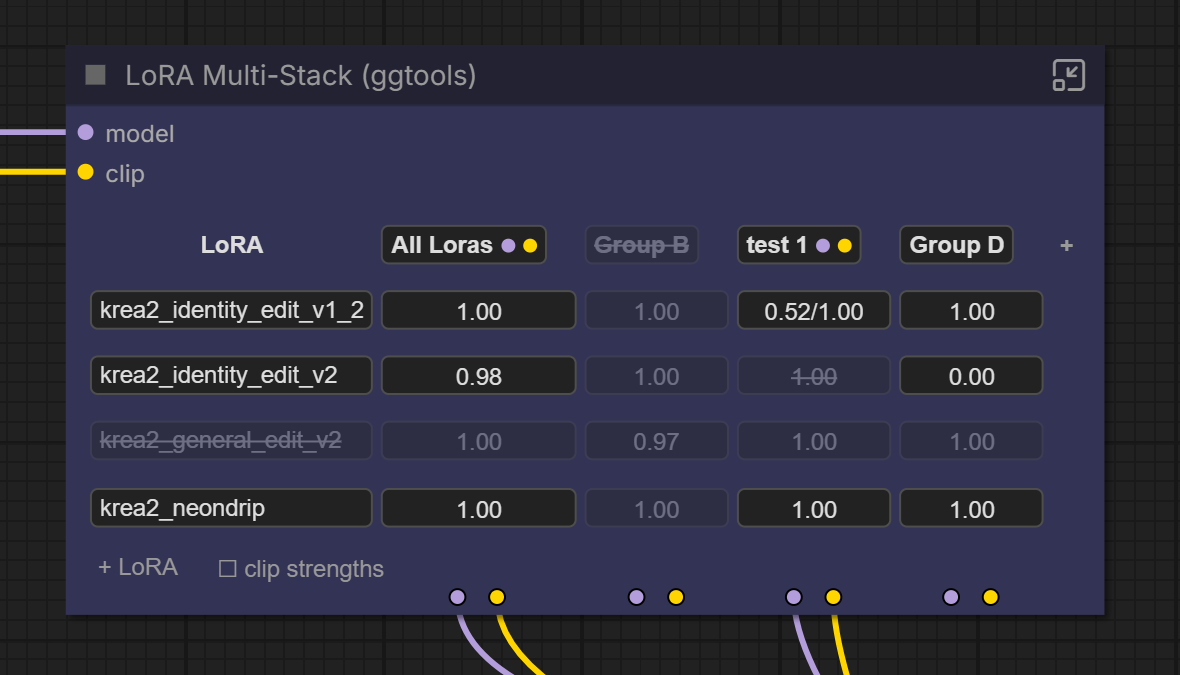
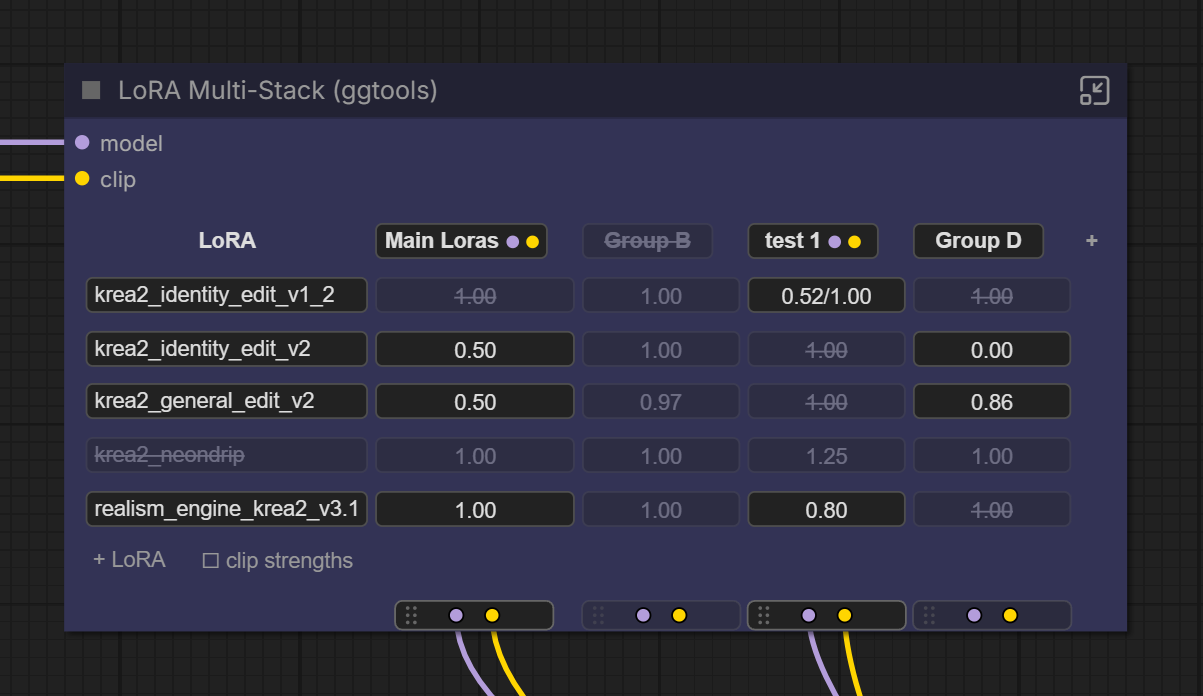
Add draggable socket plates to LoRA Multi-Stack
Each group's model/clip sockets sit on a plate that can be dragged onto
another group to swap their wires, or move them when that group has none.
Plates fade for unwired and bypassed groups. Nodes wired to the outputs are
notified after a swap or a group rename, so Pipe To updates its entries.

diff --git a/web/lora_matrix.js b/web/lora_matrix.js
@@ -6,6 +6,9 @@ let lastTap = null;
 const titleMeasure = document.createElement("canvas").getContext("2d");
 // Room along the bottom edge for the group sockets.
 const SOCKET_STRIP = 18;
+const FRAME_HINT = "drag onto another group to swap their model/clip wires";
+// One plate size for every group; group columns are at least this wide (plus their 2 px cell padding).
+const PAD_WIDTH = 88;
 
 // Each press already acts; a second press on the same target within 400 ms makes it a double press.
 function doublePress(target) {
@@ -28,6 +31,7 @@ style.textContent = `
 .ggtools-lora-matrix td, .ggtools-lora-matrix th { padding: 2px; }
 .ggtools-lora-matrix .lora, .ggtools-lora-matrix .group, .ggtools-lora-matrix input { width: 100%; box-sizing: border-box; background: var(--comfy-input-bg); color: var(--input-text); border: 1px solid var(--border-color); border-radius: 4px; padding: 2px 4px; font: inherit; }
 .ggtools-lora-matrix th input { text-align: center; font-weight: bold; }
+.ggtools-lora-matrix th.group-col { min-width: ${PAD_WIDTH + 4}px; }
 .ggtools-lora-matrix .group { text-align: center; font-weight: bold; cursor: pointer; user-select: none; white-space: nowrap; }
 .ggtools-lora-matrix .wired { display: inline-block; box-sizing: border-box; width: 7px; height: 7px; border-radius: 50%; margin-left: 4px; vertical-align: middle; }
 .ggtools-lora-matrix .lora { max-width: 280px; cursor: pointer; overflow: hidden; text-overflow: ellipsis; white-space: nowrap; }
@@ -99,7 +103,10 @@ class LoraMatrix extends LGraphNode {
         this.observer.observe(this.table);
         const widget = this.addDOMWidget("matrix", "lora_matrix", this.table, {
             serialize: false,
-            getMinHeight: () => (this.compact ? 0 : (this.properties.matrix.rows.length + (this.properties.matrix.showClip ? 3 : 2)) * 28 + 8),
+            // Exactly the table plus its margins: ComfyUI would hand a DOM widget the rest of the node, and the
+            // socket strip below the table has to stay the node's, so presses on the socket frames reach onMouseDown.
+            getMinHeight: () => this.widgetHeight(),
+            getMaxHeight: () => this.widgetHeight(),
         });
         widget.serialize = false;
         // Outputs sit under their groups, so the table starts right below the two inputs.
@@ -113,6 +120,137 @@ class LoraMatrix extends LGraphNode {
     onConfigure() { this.layout(); }
 
     onRemoved() { this.observer.disconnect(); }
+
+    // A frame around each group's socket pair. The canvas handles presses on the sockets first (new and moved
+    // wires), so a press on the frame beside them reaches onMouseDown and drags the group's wires instead.
+    frameAt([x, y]) {
+        if (this.compact || y < this.size[1] - SOCKET_STRIP || y > this.size[1]) return null;
+        return this.frames?.find((frame) => Math.abs(x - frame.center) <= frame.width / 2)?.key ?? null;
+    }
+
+    drawFrames(ctx) {
+        if (!this.frames?.length) return;
+        const top = this.size[1] - SOCKET_STRIP + 1;
+        const height = SOCKET_STRIP - 2;
+        ctx.save();
+        ctx.lineWidth = 1;
+        // Plates like the strength boxes; the canvas draws the sockets after this, on top of them. A six-dot grip
+        // at the left end marks them as draggable; hovered, dragged and target plates get a bright outline and a
+        // lighter fill. Status shows as contrast, not colour, since users recolour nodes: a group with no wired
+        // output fades, a bypassed one is muted. While dragging every plate is a drop target, so all show fully.
+        const active = this.dragging ? [this.dragging.from, this.dragging.over] : [this.hovered];
+        for (const frame of this.frames) {
+            const left = frame.center - frame.width / 2;
+            const lit = active.includes(frame.key);
+            const bypassed = this.matrix.columns.find((column) => column.key === frame.key)?.bypass;
+            ctx.globalAlpha = lit || this.dragging ? 1 : (this.groupWired(frame.key) ? 1 : 0.45) * (bypassed ? 0.7 : 1);
+            ctx.fillStyle = LiteGraph.WIDGET_BGCOLOR;
+            ctx.strokeStyle = lit ? LiteGraph.WIDGET_TEXT_COLOR : LiteGraph.WIDGET_OUTLINE_COLOR;
+            ctx.beginPath();
+            ctx.roundRect(left, top, frame.width, height, 4);
+            ctx.fill();
+            if (lit) {
+                ctx.fillStyle = "rgba(255, 255, 255, 0.08)";
+                ctx.fill();
+            }
+            ctx.stroke();
+            ctx.fillStyle = ctx.strokeStyle;
+            for (const [dx, dy] of [[7, 4], [11, 4], [7, 8], [11, 8], [7, 12], [11, 12]]) {
+                ctx.beginPath();
+                ctx.arc(left + dx, top + dy, 1, 0, 2 * Math.PI);
+                ctx.fill();
+            }
+        }
+        ctx.globalAlpha = 1;
+        if (this.dragging?.moved) {
+            const width = this.frames.find((frame) => frame.key === this.dragging.from).width;
+            ctx.setLineDash([4, 3]);
+            ctx.strokeStyle = LiteGraph.WIDGET_TEXT_COLOR;
+            ctx.beginPath();
+            ctx.roundRect(this.dragging.x - width / 2, top, width, height, 4);
+            ctx.stroke();
+        }
+        ctx.restore();
+    }
+
+    onMouseDown(e, pos, canvas) {
+        const from = this.frameAt(pos);
+        if (!from) return false;
+        const { pointer } = canvas;
+        this.dragging = { from, x: pos[0], over: null, moved: false };
+        pointer.onDragStart = () => { this.dragging.moved = true; };
+        pointer.onDrag = (eMove) => {
+            this.dragging.x = eMove.canvasX - this.pos[0];
+            const over = this.frameAt([this.dragging.x, this.size[1] - SOCKET_STRIP / 2]);
+            this.dragging.over = over !== from ? over : null;
+            const target = this.matrix.columns.find((column) => column.key === this.dragging.over);
+            this.showHint(!target ? "drop on another group's sockets" : this.groupWired(target.key) ? `swap wires with ${target.name}` : `move wires to ${target.name}`);
+            this.setDirtyCanvas(true, false);
+        };
+        pointer.onDragEnd = () => { if (this.dragging.over) this.swapGroupWires(from, this.dragging.over); };
+        pointer.finally = () => {
+            this.dragging = null;
+            this.showHint("");
+            this.setDirtyCanvas(true, false);
+        };
+        return true;
+    }
+
+    onMouseMove(e, pos) {
+        if (this.dragging) return;
+        const hovered = this.frameAt(pos);
+        if (hovered !== this.hovered) this.setDirtyCanvas(true, false);
+        this.hovered = hovered;
+        if (hovered) this.showHint(FRAME_HINT);
+        else if (this.hint === FRAME_HINT) this.showHint("");
+    }
+
+    onMouseLeave() {
+        if (this.dragging) return;
+        if (this.hovered) this.setDirtyCanvas(true, false);
+        this.hovered = null;
+        if (this.hint === FRAME_HINT) this.showHint("");
+    }
+
+    groupWired(key) {
+        return ["model", "clip"].some((kind) => {
+            const slot = this.outputs.findIndex((output) => output.name === `${kind}:${key}`);
+            return slot >= 0 && this.isOutputConnected(slot);
+        });
+    }
+
+    // Model wires trade places with model wires and clip with clip; with nothing on one side, they just move.
+    exchangeWires(a, b) {
+        const moves = [];
+        for (const kind of ["model", "clip"]) {
+            const from = this.outputs.findIndex((output) => output.name === `${kind}:${a}`);
+            const to = this.outputs.findIndex((output) => output.name === `${kind}:${b}`);
+            if (from < 0 || to < 0) continue;
+            for (const link of this.outgoingLinks()) {
+                if (link.origin_slot === from) moves.push([link, to]);
+                else if (link.origin_slot === to) moves.push([link, from]);
+            }
+        }
+        for (const [link, slot] of moves) link.origin_slot = slot;
+        this.notifyTargets(moves.map(([link]) => link));
+    }
+
+    // Tell each receiving node, as reconnecting by hand would, so nodes that name or type their inputs from the
+    // source (such as Pipe To) update now rather than on the next unrelated change.
+    notifyTargets(links) {
+        for (const link of links) {
+            const target = this.graph?.getNodeById(link.target_id);
+            target?.onConnectionsChange?.(LiteGraph.INPUT, link.target_slot, true, link, target.inputs?.[link.target_slot]);
+        }
+    }
+
+    swapGroupWires(a, b) {
+        const name = (key) => this.matrix.columns.find((column) => column.key === key).name;
+        const label = this.groupWired(b) ? `Swapped wires of ${name(a)} and ${name(b)}` : `Moved wires from ${name(a)} to ${name(b)}`;
+        this.exchangeWires(a, b);
+        this.undo = { label, restore: () => this.exchangeWires(a, b) };
+        this.update();
+    }
 
     showHint(text) {
         if (this.hint === text) return;
@@ -155,6 +293,7 @@ class LoraMatrix extends LGraphNode {
         this.placeOutputs();
         if (this.compact) return;
         this.drawHint(ctx);
+        this.drawFrames(ctx);
         this.tableWidth();
         if (this.measuredWidth && this.size[0] < this.measuredWidth) this.setSize([this.measuredWidth, this.size[1]]);
     }
@@ -176,6 +315,12 @@ class LoraMatrix extends LGraphNode {
     }
 
     get matrix() { return this.properties.matrix; }
+
+    widgetHeight() {
+        if (this.compact) return 0;
+        const { rows, showClip } = this.properties.matrix;
+        return (rows.length + (showClip ? 3 : 2)) * 28 + 8 + 2 * (this.widgets?.[0]?.margin ?? 10);
+    }
 
     // The view is kept apart from the LoRA settings: "compact" shows a normal node with the outputs listed on the right.
     get compact() { return this.properties.view === "compact"; }
@@ -238,8 +383,10 @@ class LoraMatrix extends LGraphNode {
             const keep = wanted.some((w) => w.name === output.name) || (kind === "clip" && keys.includes(key) && this.isOutputConnected(i));
             if (!keep) this.removeOutput(i);
         }
+        const relabeled = new Set();
         for (const w of wanted) {
             const output = this.outputs.find((output) => output.name === w.name) || this.addOutput(w.name, w.type);
+            if (output.label !== w.label) relabeled.add(output);
             output.label = w.label;
         }
         const rank = (output) => {
@@ -248,11 +395,14 @@ class LoraMatrix extends LGraphNode {
         };
         const before = [...this.outputs];
         const sorted = [...before].sort((a, b) => rank(a) - rank(b));
-        if (sorted.every((output, i) => output === before[i])) return;
-        // Read each link's output before moving the slots, then file the link under that output's new slot.
-        const moves = this.outgoingLinks().map((link) => [link, sorted.indexOf(before[link.origin_slot])]);
-        this.outputs.splice(0, this.outputs.length, ...sorted);
-        for (const [link, slot] of moves) link.origin_slot = slot;
+        if (sorted.some((output, i) => output !== before[i])) {
+            // Read each link's output before moving the slots, then file the link under that output's new slot.
+            const moves = this.outgoingLinks().map((link) => [link, sorted.indexOf(before[link.origin_slot])]);
+            this.outputs.splice(0, this.outputs.length, ...sorted);
+            for (const [link, slot] of moves) link.origin_slot = slot;
+        }
+        // A renamed group renames its outputs; nodes naming their inputs after them (Pipe To) need to know.
+        if (relabeled.size) this.notifyTargets(this.outgoingLinks().filter((link) => relabeled.has(this.outputs[link.origin_slot])));
     }
 
     update() {
@@ -283,7 +433,7 @@ class LoraMatrix extends LGraphNode {
         const widget = this.widgets?.[0];
         if (!widget || this.compact) return size;
         size[0] = Math.max(size[0], this.tableWidth());
-        size[1] = this.widgets_start_y + widget.options.getMinHeight() + 2 * (widget.margin ?? 10) + SOCKET_STRIP;
+        size[1] = this.widgets_start_y + this.widgetHeight() + SOCKET_STRIP;
         return size;
     }
 
@@ -309,9 +459,11 @@ class LoraMatrix extends LGraphNode {
         const margin = this.widgets?.[0]?.margin ?? 10;
         const y = this.size[1] - SOCKET_STRIP / 2;
         let moved = false;
+        this.frames = [];
         this.matrix.columns.forEach((column, i) => {
             const header = this.groupHeaders?.[i];
             const center = header?.isConnected ? margin + header.offsetLeft + header.offsetWidth / 2 : 220 + i * 80 + 40;
+            this.frames.push({ key: column.key, center, width: PAD_WIDTH });
             const model = this.outputs.find((output) => output.name === `model:${column.key}`);
             const clip = this.outputs.find((output) => output.name === `clip:${column.key}`);
             for (const [output, x] of [[model, clip ? center - 10 : center], [clip, center + 10]]) {
@@ -533,7 +685,7 @@ class LoraMatrix extends LGraphNode {
                 };
                 this.update();
             };
-            const th = element("th", { className: column.bypass ? "bypassed" : "" }, element("div", { style: "display:flex" }, name, remove));
+            const th = element("th", { className: `group-col${column.bypass ? " bypassed" : ""}` }, element("div", { style: "display:flex" }, name, remove));
             this.groupHeaders.push(th);
             header.append(th);
         }

diff --git a/README.md b/README.md
@@ -42,7 +42,7 @@ When you queue, each used output becomes an ordinary link to the original source
 
 ## LoRA Multi-Stack
 
-![LoRA Multi-Stack with four LoRAs and four groups, one strength per cell. Group B is bypassed, one LoRA is muted and one cell in test 1 is off; a cell with its own clip strength reads 0.52/1.00. Every group has a model and a clip socket on the bottom edge.](assets/multistack_example_01.png)
+![LoRA Multi-Stack with five LoRAs and four groups, one strength per cell. Group B is bypassed, one LoRA is muted and some cells are off; a cell with its own clip strength reads 0.52/1.00. Each group's model and clip sockets sit on a plate on the bottom edge, faded for groups with nothing wired.](assets/multistack_example_01.png)
 
 Each column is a **group**: its own LoRA stack, with its own `model` and `clip` outputs on the bottom edge under it. Each row is a LoRA, and each cell is that LoRA's strength in that group. Connect `model`, and `clip` if your LoRAs need it; the clip outputs appear once `clip` is connected.
 
@@ -55,9 +55,10 @@ Each column is a **group**: its own LoRA stack, with its own `model` and `clip` 
 - Drag a strength left or right to adjust it. `0.80` sets model and clip; tick **clip strengths** to set them separately (stored as `0.80/0.50`). An empty cell, an off cell or `0` leaves the LoRA out of that group.
 - **+** adds a group copying the last one; **+ LoRA** adds a row. Removing a group or row can be undone from the footer until your next edit.
 - Dots after a group name show which of its outputs are wired; a ring means the matching input isn't connected.
+- Drag a group's socket plate onto another group to swap their model/clip wires (or move them, if that group has none). Undo in the footer reverts it.
 - Hover anything for a short explanation above the table.
 
-![The same node with clip strengths ticked: every cell is split into a model and a clip half, with model and clip under each group name, and two groups are wired into a Pipe To.](assets/multistack_example_02.png)
+![The same node with clip strengths ticked: every cell is split into a model and a clip half, with model and clip under each group name, and Main Loras and test 1 are wired into a Pipe To.](assets/multistack_example_02.png)
 
 The title-bar button switches to **compact view**: a normal node with each group's outputs listed on the right. Switch back with the same button. Toggling bypass in compact view is in the node's right-click menu.
 
